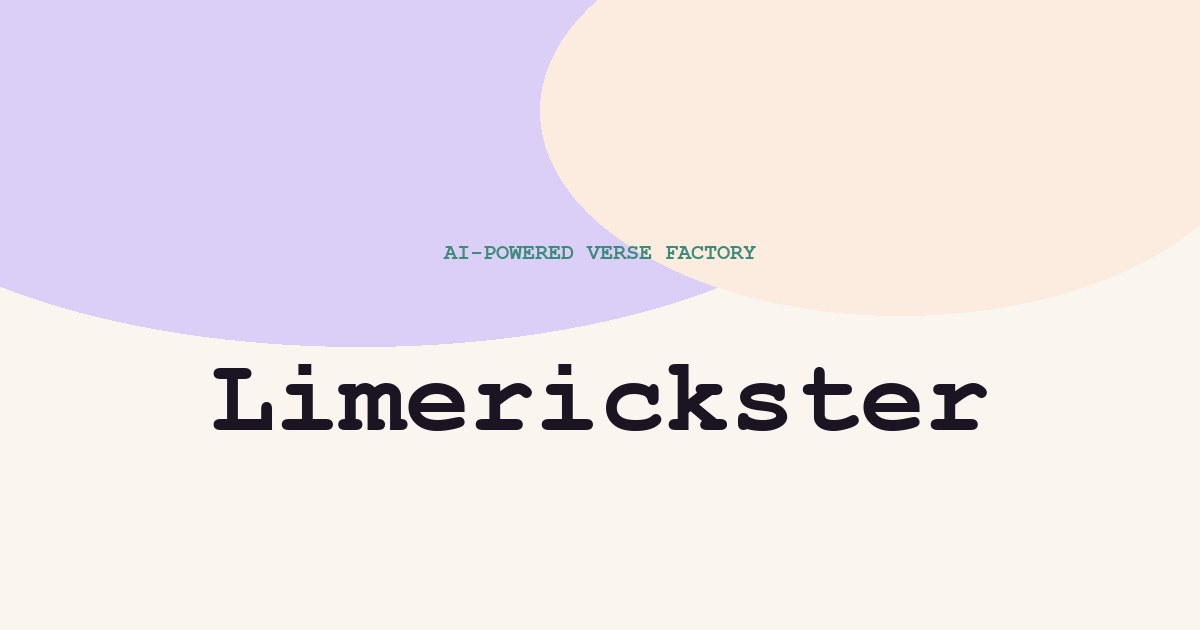
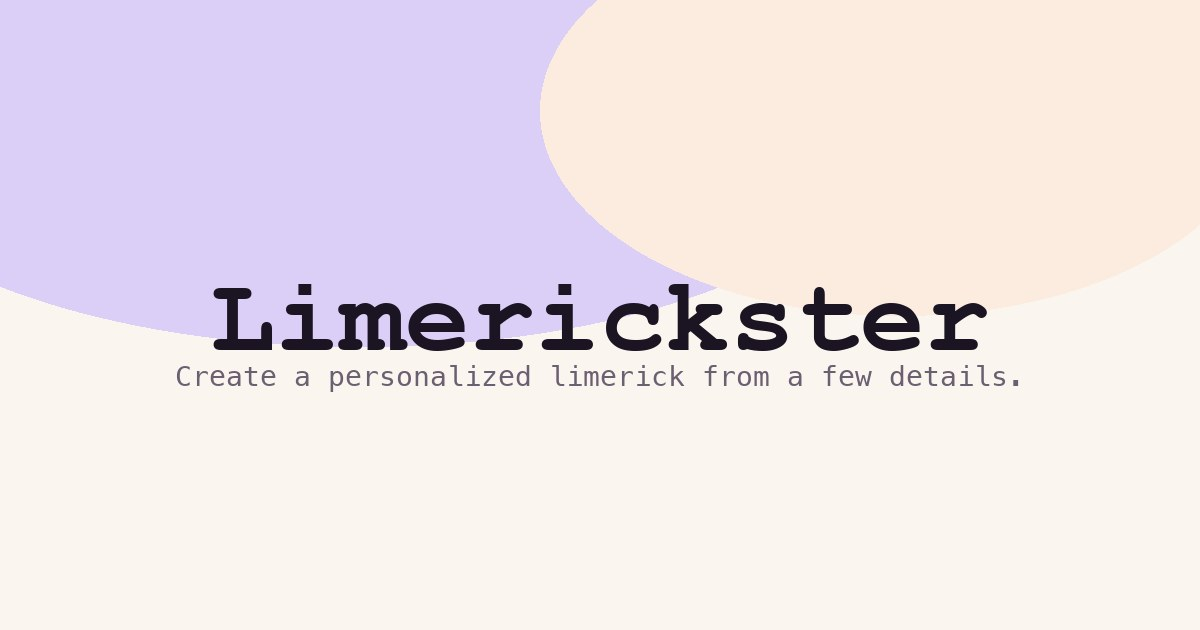
Update subtitle

Changed region(s): [[0.1542, 0.4524, 0.8325, 0.6937], [0.37, 0.3921, 0.6475, 0.4222]]

diff --git a/templates/index.html b/templates/index.html
@@ -39,9 +39,8 @@
 <body>
   <div class="page">
     <header class="hero">
-      <p class="eyebrow">AI-powered verse factory</p>
       <h1>Limerickster</h1>
-      <p class="subtitle">Tell us about someone, & we'll write a five-line poem.</p>
+      <p class="subtitle">Create a personalized limerick from a few details.</p>
     </header>
 
     <main class="layout">

diff --git a/scripts/generate_brand_assets.py b/scripts/generate_brand_assets.py
@@ -78,8 +78,14 @@ def generate_og() -> None:
     img = draw_site_background((1200, 630))
     draw = ImageDraw.Draw(img)
 
-    _center_text(draw, 240, "AI-POWERED VERSE FACTORY", body_font(22, bold=True), MINT)
-    _center_text(draw, 340, "Limerickster", display_font(108), INK)
+    _center_text(draw, 260, "Limerickster", display_font(108), INK)
+    _center_text(
+        draw,
+        360,
+        "Create a personalized limerick from a few details.",
+        body_font(28),
+        MUTED,
+    )
 
     img.save(STATIC / "og-image.jpg", format="JPEG", quality=88, optimize=True)
     print(f"Wrote {STATIC / 'og-image.jpg'}")

diff --git a/app.py b/app.py
@@ -72,10 +72,7 @@ def _exempt_localhost():
         return False
     return request.remote_addr in ("127.0.0.1", "::1")
 
-SITE_DESCRIPTION = (
-    "Tell us about someone, & we'll write a five-line poem. "
-    "AI-powered verse factory."
-)
+SITE_DESCRIPTION = "Create a personalized limerick from a few details."
 
 
 @app.context_processor

diff --git a/README.md b/README.md
@@ -6,7 +6,7 @@ colorTo: pink
 sdk: docker
 app_port: 7860
 pinned: false
-short_description: Need to create a limerick? Have AI do it!
+short_description: Create a personalized limerick from a few details.
 thumbnail: https://huggingface.co/spaces/hayleyw7/limerickster/resolve/main/static/og-image.jpg
 ---
 
